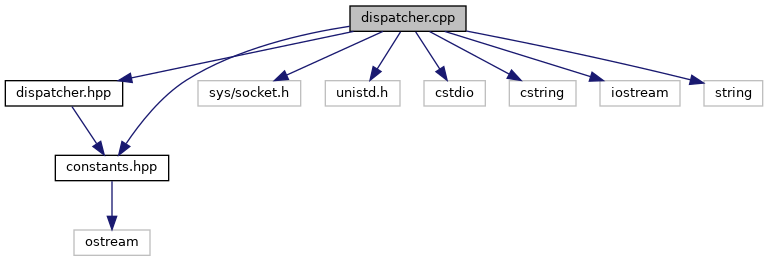
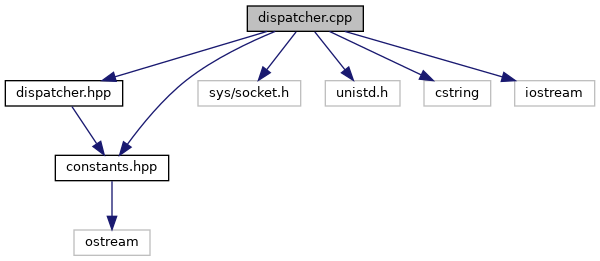
Update Doxygen docs

diff --git a/docs/server_8hpp_source.html b/docs/server_8hpp_source.html
@@ -74,23 +74,23 @@ $(function() {
 <div class="line"><a name="l00002"></a><span class="lineno">    2</span>&#160;<span class="preprocessor">#define SERVER_HPP</span></div>
 <div class="line"><a name="l00003"></a><span class="lineno">    3</span>&#160; </div>
 <div class="line"><a name="l00004"></a><span class="lineno">    4</span>&#160;<span class="preprocessor">#include &lt;cstdint&gt;</span></div>
-<div class="line"><a name="l00005"></a><span class="lineno">    5</span>&#160; </div>
-<div class="line"><a name="l00012"></a><span class="lineno"><a class="line" href="classServer.html">   12</a></span>&#160;<span class="keyword">class </span><a class="code" href="classServer.html">Server</a> {</div>
-<div class="line"><a name="l00013"></a><span class="lineno">   13</span>&#160;<span class="keyword">private</span>:</div>
-<div class="line"><a name="l00014"></a><span class="lineno">   14</span>&#160;<span class="keyword">public</span>:</div>
-<div class="line"><a name="l00015"></a><span class="lineno">   15</span>&#160;    <a class="code" href="classServer.html">Server</a>();</div>
+<div class="line"><a name="l00005"></a><span class="lineno">    5</span>&#160;<span class="preprocessor">#include &quot;constants.hpp&quot;</span></div>
+<div class="line"><a name="l00006"></a><span class="lineno">    6</span>&#160; </div>
+<div class="line"><a name="l00013"></a><span class="lineno"><a class="line" href="classServer.html">   13</a></span>&#160;<span class="keyword">class </span><a class="code" href="classServer.html">Server</a> {</div>
+<div class="line"><a name="l00014"></a><span class="lineno">   14</span>&#160;<span class="keyword">private</span>:</div>
+<div class="line"><a name="l00015"></a><span class="lineno">   15</span>&#160;    SOCKET_FD ss;</div>
 <div class="line"><a name="l00016"></a><span class="lineno">   16</span>&#160; </div>
-<div class="line"><a name="l00027"></a><span class="lineno">   27</span>&#160;    <a class="code" href="classServer.html">Server</a>(std::uint16_t port);</div>
-<div class="line"><a name="l00028"></a><span class="lineno">   28</span>&#160; </div>
-<div class="line"><a name="l00029"></a><span class="lineno">   29</span>&#160;    <span class="comment">// TODO:</span></div>
-<div class="line"><a name="l00030"></a><span class="lineno">   30</span>&#160;    ~<a class="code" href="classServer.html">Server</a>();</div>
-<div class="line"><a name="l00031"></a><span class="lineno">   31</span>&#160; </div>
-<div class="line"><a name="l00042"></a><span class="lineno">   42</span>&#160;    <span class="keywordtype">void</span> <a class="code" href="classServer.html#a08b15723047dd78d58ded22f2a893a2f">start</a>(std::uint16_t port);</div>
-<div class="line"><a name="l00043"></a><span class="lineno">   43</span>&#160;};</div>
-<div class="line"><a name="l00044"></a><span class="lineno">   44</span>&#160; </div>
-<div class="line"><a name="l00045"></a><span class="lineno">   45</span>&#160;<span class="preprocessor">#endif  </span><span class="comment">// !SERVER_HPP</span></div>
-<div class="ttc" id="aclassServer_html"><div class="ttname"><a href="classServer.html">Server</a></div><div class="ttdoc">A class to represent the HTTP server.</div><div class="ttdef"><b>Definition:</b> server.hpp:12</div></div>
-<div class="ttc" id="aclassServer_html_a08b15723047dd78d58ded22f2a893a2f"><div class="ttname"><a href="classServer.html#a08b15723047dd78d58ded22f2a893a2f">Server::start</a></div><div class="ttdeci">void start(std::uint16_t port)</div><div class="ttdoc">Starts the server on the given port.</div><div class="ttdef"><b>Definition:</b> server.cpp:20</div></div>
+<div class="line"><a name="l00017"></a><span class="lineno">   17</span>&#160;<span class="keyword">public</span>:</div>
+<div class="line"><a name="l00018"></a><span class="lineno">   18</span>&#160;    <a class="code" href="classServer.html">Server</a>();</div>
+<div class="line"><a name="l00019"></a><span class="lineno">   19</span>&#160; </div>
+<div class="line"><a name="l00020"></a><span class="lineno">   20</span>&#160;    ~<a class="code" href="classServer.html">Server</a>();</div>
+<div class="line"><a name="l00021"></a><span class="lineno">   21</span>&#160; </div>
+<div class="line"><a name="l00032"></a><span class="lineno">   32</span>&#160;    <span class="keywordtype">void</span> <a class="code" href="classServer.html#a08b15723047dd78d58ded22f2a893a2f">start</a>(std::uint16_t port);</div>
+<div class="line"><a name="l00033"></a><span class="lineno">   33</span>&#160;};</div>
+<div class="line"><a name="l00034"></a><span class="lineno">   34</span>&#160; </div>
+<div class="line"><a name="l00035"></a><span class="lineno">   35</span>&#160;<span class="preprocessor">#endif  </span><span class="comment">// !SERVER_HPP</span></div>
+<div class="ttc" id="aclassServer_html"><div class="ttname"><a href="classServer.html">Server</a></div><div class="ttdoc">A class to represent the HTTP server.</div><div class="ttdef"><b>Definition:</b> server.hpp:13</div></div>
+<div class="ttc" id="aclassServer_html_a08b15723047dd78d58ded22f2a893a2f"><div class="ttname"><a href="classServer.html#a08b15723047dd78d58ded22f2a893a2f">Server::start</a></div><div class="ttdeci">void start(std::uint16_t port)</div><div class="ttdoc">Starts the server on the given port.</div><div class="ttdef"><b>Definition:</b> server.cpp:21</div></div>
 </div><!-- fragment --></div><!-- contents -->
 <!-- start footer part -->
 <hr class="footer"/><address class="footer"><small>

diff --git a/docs/classServer.html b/docs/classServer.html
@@ -77,9 +77,6 @@ $(function() {
 <table class="memberdecls">
 <tr class="heading"><td colspan="2"><h2 class="groupheader"><a name="pub-methods"></a>
 Public Member Functions</h2></td></tr>
-<tr class="memitem:a48c8203ca321a55383145647522fe545"><td class="memItemLeft" align="right" valign="top">&#160;</td><td class="memItemRight" valign="bottom"><a class="el" href="classServer.html#a48c8203ca321a55383145647522fe545">Server</a> (std::uint16_t port)</td></tr>
-<tr class="memdesc:a48c8203ca321a55383145647522fe545"><td class="mdescLeft">&#160;</td><td class="mdescRight">Starts the server on the given port.  <a href="classServer.html#a48c8203ca321a55383145647522fe545">More...</a><br /></td></tr>
-<tr class="separator:a48c8203ca321a55383145647522fe545"><td class="memSeparator" colspan="2">&#160;</td></tr>
 <tr class="memitem:a08b15723047dd78d58ded22f2a893a2f"><td class="memItemLeft" align="right" valign="top">void&#160;</td><td class="memItemRight" valign="bottom"><a class="el" href="classServer.html#a08b15723047dd78d58ded22f2a893a2f">start</a> (std::uint16_t port)</td></tr>
 <tr class="memdesc:a08b15723047dd78d58ded22f2a893a2f"><td class="mdescLeft">&#160;</td><td class="mdescRight">Starts the server on the given port.  <a href="classServer.html#a08b15723047dd78d58ded22f2a893a2f">More...</a><br /></td></tr>
 <tr class="separator:a08b15723047dd78d58ded22f2a893a2f"><td class="memSeparator" colspan="2">&#160;</td></tr>
@@ -87,35 +84,7 @@ Public Member Functions</h2></td></tr>
 <a name="details" id="details"></a><h2 class="groupheader">Detailed Description</h2>
 <div class="textblock"><p>A class to represent the HTTP server. </p>
 <p>This class provides functionalities to start and manage an HTTP server. </p>
-</div><h2 class="groupheader">Constructor &amp; Destructor Documentation</h2>
-<a id="a48c8203ca321a55383145647522fe545"></a>
-<h2 class="memtitle"><span class="permalink"><a href="#a48c8203ca321a55383145647522fe545">&#9670;&nbsp;</a></span>Server()</h2>
-
-<div class="memitem">
-<div class="memproto">
-      <table class="memname">
-        <tr>
-          <td class="memname">Server::Server </td>
-          <td>(</td>
-          <td class="paramtype">std::uint16_t&#160;</td>
-          <td class="paramname"><em>port</em></td><td>)</td>
-          <td></td>
-        </tr>
-      </table>
-</div><div class="memdoc">
-
-<p>Starts the server on the given port. </p>
-<p>This function initializes and starts the server, making it listen on the specified port. It accepts incoming connections and spawns a new dispatcher thread for each connection.</p>
-<dl class="params"><dt>Parameters</dt><dd>
-  <table class="params">
-    <tr><td class="paramname">port</td><td>The port number on which the server will listen for incoming connections. </td></tr>
-  </table>
-  </dd>
-</dl>
-
-</div>
-</div>
-<h2 class="groupheader">Member Function Documentation</h2>
+</div><h2 class="groupheader">Member Function Documentation</h2>
 <a id="a08b15723047dd78d58ded22f2a893a2f"></a>
 <h2 class="memtitle"><span class="permalink"><a href="#a08b15723047dd78d58ded22f2a893a2f">&#9670;&nbsp;</a></span>start()</h2>
 

diff --git a/docs/server_8cpp.html b/docs/server_8cpp.html
@@ -75,8 +75,7 @@ $(function() {
 <a href="#details">More...</a></p>
 <div class="textblock"><code>#include &quot;server.hpp&quot;</code><br />
 <code>#include &lt;netinet/in.h&gt;</code><br />
-<code>#include &lt;cstdint&gt;</code><br />
-<code>#include &lt;cstring&gt;</code><br />
+<code>#include &lt;unistd.h&gt;</code><br />
 <code>#include &lt;thread&gt;</code><br />
 <code>#include &quot;dispatcher.hpp&quot;</code><br />
 <code>#include &quot;logger.hpp&quot;</code><br />
@@ -87,17 +86,17 @@ Include dependency graph for server.cpp:</div>
 <map name="aserver_8cpp" id="aserver_8cpp">
 <area shape="rect" title="Implements HTTP server." alt="" coords="279,5,369,32"/>
 <area shape="rect" href="server_8hpp_source.html" title=" " alt="" coords="5,80,96,107"/>
-<area shape="rect" title=" " alt="" coords="59,155,125,181"/>
-<area shape="rect" title=" " alt="" coords="171,80,267,107"/>
-<area shape="rect" title=" " alt="" coords="291,80,357,107"/>
-<area shape="rect" title=" " alt="" coords="381,80,445,107"/>
-<area shape="rect" href="dispatcher_8hpp_source.html" title=" " alt="" coords="469,80,587,107"/>
-<area shape="rect" href="logger_8hpp_source.html" title=" " alt="" coords="647,80,737,107"/>
-<area shape="rect" href="constants_8hpp_source.html" title=" " alt="" coords="453,155,566,181"/>
-<area shape="rect" title=" " alt="" coords="471,229,547,256"/>
-<area shape="rect" title=" " alt="" coords="590,155,653,181"/>
-<area shape="rect" title=" " alt="" coords="677,155,741,181"/>
-<area shape="rect" title=" " alt="" coords="765,155,824,181"/>
+<area shape="rect" title=" " alt="" coords="120,80,216,107"/>
+<area shape="rect" title=" " alt="" coords="240,80,315,107"/>
+<area shape="rect" title=" " alt="" coords="339,80,403,107"/>
+<area shape="rect" href="dispatcher_8hpp_source.html" title=" " alt="" coords="427,80,544,107"/>
+<area shape="rect" href="logger_8hpp_source.html" title=" " alt="" coords="568,80,659,107"/>
+<area shape="rect" title=" " alt="" coords="17,155,84,181"/>
+<area shape="rect" href="constants_8hpp_source.html" title=" " alt="" coords="233,155,346,181"/>
+<area shape="rect" title=" " alt="" coords="251,229,327,256"/>
+<area shape="rect" title=" " alt="" coords="494,155,557,181"/>
+<area shape="rect" title=" " alt="" coords="581,155,645,181"/>
+<area shape="rect" title=" " alt="" coords="669,155,728,181"/>
 </map>
 </div>
 </div><a name="details" id="details"></a><h2 class="groupheader">Detailed Description</h2>

diff --git a/docs/md_README.html b/docs/md_README.html
@@ -120,8 +120,8 @@ Usage</h1>
 <div class="ttc" id="aclassRequest_html"><div class="ttname"><a href="classRequest.html">Request</a></div><div class="ttdoc">A class to represent an HTTP request.</div><div class="ttdef"><b>Definition:</b> request.hpp:17</div></div>
 <div class="ttc" id="aclassResponse_html"><div class="ttname"><a href="classResponse.html">Response</a></div><div class="ttdef"><b>Definition:</b> response.hpp:8</div></div>
 <div class="ttc" id="aclassRouter_html"><div class="ttname"><a href="classRouter.html">Router</a></div><div class="ttdef"><b>Definition:</b> router.hpp:8</div></div>
-<div class="ttc" id="aclassServer_html"><div class="ttname"><a href="classServer.html">Server</a></div><div class="ttdoc">A class to represent the HTTP server.</div><div class="ttdef"><b>Definition:</b> server.hpp:12</div></div>
-<div class="ttc" id="aclassServer_html_a08b15723047dd78d58ded22f2a893a2f"><div class="ttname"><a href="classServer.html#a08b15723047dd78d58ded22f2a893a2f">Server::start</a></div><div class="ttdeci">void start(std::uint16_t port)</div><div class="ttdoc">Starts the server on the given port.</div><div class="ttdef"><b>Definition:</b> server.cpp:20</div></div>
+<div class="ttc" id="aclassServer_html"><div class="ttname"><a href="classServer.html">Server</a></div><div class="ttdoc">A class to represent the HTTP server.</div><div class="ttdef"><b>Definition:</b> server.hpp:13</div></div>
+<div class="ttc" id="aclassServer_html_a08b15723047dd78d58ded22f2a893a2f"><div class="ttname"><a href="classServer.html#a08b15723047dd78d58ded22f2a893a2f">Server::start</a></div><div class="ttdeci">void start(std::uint16_t port)</div><div class="ttdoc">Starts the server on the given port.</div><div class="ttdef"><b>Definition:</b> server.cpp:21</div></div>
 </div><!-- fragment --><ol type="1">
 <li><b>Defining a controller function:</b></li>
 </ol>

diff --git a/docs/dispatcher_8cpp.html b/docs/dispatcher_8cpp.html
@@ -78,25 +78,21 @@ $(function() {
 <div class="textblock"><code>#include &quot;dispatcher.hpp&quot;</code><br />
 <code>#include &lt;sys/socket.h&gt;</code><br />
 <code>#include &lt;unistd.h&gt;</code><br />
-<code>#include &lt;cstdio&gt;</code><br />
 <code>#include &lt;cstring&gt;</code><br />
 <code>#include &lt;iostream&gt;</code><br />
-<code>#include &lt;string&gt;</code><br />
 <code>#include &quot;constants.hpp&quot;</code><br />
 </div><div class="textblock"><div class="dynheader">
 Include dependency graph for dispatcher.cpp:</div>
 <div class="dyncontent">
 <div class="center"><img src="dispatcher_8cpp__incl.png" border="0" usemap="#adispatcher_8cpp" alt=""/></div>
 <map name="adispatcher_8cpp" id="adispatcher_8cpp">
-<area shape="rect" title="This file implements the dispatcher thread." alt="" coords="350,5,466,32"/>
+<area shape="rect" title="This file implements the dispatcher thread." alt="" coords="247,5,363,32"/>
 <area shape="rect" href="dispatcher_8hpp_source.html" title=" " alt="" coords="5,80,123,107"/>
 <area shape="rect" href="constants_8hpp_source.html" title=" " alt="" coords="55,155,169,181"/>
 <area shape="rect" title=" " alt="" coords="198,80,301,107"/>
 <area shape="rect" title=" " alt="" coords="325,80,400,107"/>
-<area shape="rect" title=" " alt="" coords="424,80,485,107"/>
-<area shape="rect" title=" " alt="" coords="509,80,576,107"/>
-<area shape="rect" title=" " alt="" coords="600,80,680,107"/>
-<area shape="rect" title=" " alt="" coords="704,80,763,107"/>
+<area shape="rect" title=" " alt="" coords="424,80,491,107"/>
+<area shape="rect" title=" " alt="" coords="515,80,595,107"/>
 <area shape="rect" title=" " alt="" coords="74,229,150,256"/>
 </map>
 </div>

diff --git a/docs/classServer-members.html b/docs/classServer-members.html
@@ -70,9 +70,8 @@ $(function() {
 <p>This is the complete list of members for <a class="el" href="classServer.html">Server</a>, including all inherited members.</p>
 <table class="directory">
   <tr bgcolor="#f0f0f0" class="even"><td class="entry"><b>Server</b>() (defined in <a class="el" href="classServer.html">Server</a>)</td><td class="entry"><a class="el" href="classServer.html">Server</a></td><td class="entry"></td></tr>
-  <tr><td class="entry"><a class="el" href="classServer.html#a48c8203ca321a55383145647522fe545">Server</a>(std::uint16_t port)</td><td class="entry"><a class="el" href="classServer.html">Server</a></td><td class="entry"></td></tr>
-  <tr class="even"><td class="entry"><a class="el" href="classServer.html#a08b15723047dd78d58ded22f2a893a2f">start</a>(std::uint16_t port)</td><td class="entry"><a class="el" href="classServer.html">Server</a></td><td class="entry"></td></tr>
-  <tr bgcolor="#f0f0f0"><td class="entry"><b>~Server</b>() (defined in <a class="el" href="classServer.html">Server</a>)</td><td class="entry"><a class="el" href="classServer.html">Server</a></td><td class="entry"></td></tr>
+  <tr><td class="entry"><a class="el" href="classServer.html#a08b15723047dd78d58ded22f2a893a2f">start</a>(std::uint16_t port)</td><td class="entry"><a class="el" href="classServer.html">Server</a></td><td class="entry"></td></tr>
+  <tr bgcolor="#f0f0f0" class="even"><td class="entry"><b>~Server</b>() (defined in <a class="el" href="classServer.html">Server</a>)</td><td class="entry"><a class="el" href="classServer.html">Server</a></td><td class="entry"></td></tr>
 </table></div><!-- contents -->
 <!-- start footer part -->
 <hr class="footer"/><address class="footer"><small>

diff --git a/docs/dispatcher_8hpp_source.html b/docs/dispatcher_8hpp_source.html
@@ -78,7 +78,7 @@ $(function() {
 <div class="line"><a name="l00015"></a><span class="lineno">   15</span>&#160;<span class="keywordtype">void</span> <a class="code" href="dispatcher_8cpp.html#a393215171b4db48f49f4b35fe0208ef1">take_over</a>(SOCKET_FD socket);</div>
 <div class="line"><a name="l00016"></a><span class="lineno">   16</span>&#160; </div>
 <div class="line"><a name="l00017"></a><span class="lineno">   17</span>&#160;<span class="preprocessor">#endif  </span><span class="comment">// !DISPATCHER_HPP</span></div>
-<div class="ttc" id="adispatcher_8cpp_html_a393215171b4db48f49f4b35fe0208ef1"><div class="ttname"><a href="dispatcher_8cpp.html#a393215171b4db48f49f4b35fe0208ef1">take_over</a></div><div class="ttdeci">void take_over(SOCKET_FD socket)</div><div class="ttdoc">The dispatcher function to handle incoming requests.</div><div class="ttdef"><b>Definition:</b> dispatcher.cpp:20</div></div>
+<div class="ttc" id="adispatcher_8cpp_html_a393215171b4db48f49f4b35fe0208ef1"><div class="ttname"><a href="dispatcher_8cpp.html#a393215171b4db48f49f4b35fe0208ef1">take_over</a></div><div class="ttdeci">void take_over(SOCKET_FD socket)</div><div class="ttdoc">The dispatcher function to handle incoming requests.</div><div class="ttdef"><b>Definition:</b> dispatcher.cpp:18</div></div>
 </div><!-- fragment --></div><!-- contents -->
 <!-- start footer part -->
 <hr class="footer"/><address class="footer"><small>

diff --git a/docs/search/functions_4.js b/docs/search/functions_4.js
@@ -1,7 +1,6 @@
 var searchData=
 [
-  ['server_42',['Server',['../classServer.html#a48c8203ca321a55383145647522fe545',1,'Server']]],
-  ['set_43',['set',['../classResponse.html#ac6e627ad5207cf157b437186535e41a7',1,'Response']]],
-  ['start_44',['start',['../classServer.html#a08b15723047dd78d58ded22f2a893a2f',1,'Server']]],
-  ['status_45',['status',['../classResponse.html#a36d551bcf0e16939a6ebc3f47ccc49e4',1,'Response']]]
+  ['set_42',['set',['../classResponse.html#ac6e627ad5207cf157b437186535e41a7',1,'Response']]],
+  ['start_43',['start',['../classServer.html#a08b15723047dd78d58ded22f2a893a2f',1,'Server']]],
+  ['status_44',['status',['../classResponse.html#a36d551bcf0e16939a6ebc3f47ccc49e4',1,'Response']]]
 ];

diff --git a/docs/search/all_7.js b/docs/search/all_7.js
@@ -1,7 +1,7 @@
 var searchData=
 [
   ['safelogger_16',['SafeLogger',['../classSafeLogger.html',1,'']]],
-  ['server_17',['Server',['../classServer.html',1,'Server'],['../classServer.html#a48c8203ca321a55383145647522fe545',1,'Server::Server()']]],
+  ['server_17',['Server',['../classServer.html',1,'']]],
   ['server_2ecpp_18',['server.cpp',['../server_8cpp.html',1,'']]],
   ['set_19',['set',['../classResponse.html#ac6e627ad5207cf157b437186535e41a7',1,'Response']]],
   ['start_20',['start',['../classServer.html#a08b15723047dd78d58ded22f2a893a2f',1,'Server']]],

diff --git a/docs/search/functions_5.js b/docs/search/functions_5.js
@@ -1,5 +1,5 @@
 var searchData=
 [
-  ['table_46',['table',['../classRouter.html#a380fbe090e8d6d285a613159a580af5c',1,'Router']]],
-  ['take_5fover_47',['take_over',['../dispatcher_8cpp.html#a393215171b4db48f49f4b35fe0208ef1',1,'dispatcher.cpp']]]
+  ['table_45',['table',['../classRouter.html#a380fbe090e8d6d285a613159a580af5c',1,'Router']]],
+  ['take_5fover_46',['take_over',['../dispatcher_8cpp.html#a393215171b4db48f49f4b35fe0208ef1',1,'dispatcher.cpp']]]
 ];

diff --git a/docs/functions.html b/docs/functions.html
@@ -75,9 +75,6 @@ $(function() {
 <li>route()
 : <a class="el" href="classRouter.html#aed151339ab9cebb5e0882b75e43da511">Router</a>
 </li>
-<li>Server()
-: <a class="el" href="classServer.html#a48c8203ca321a55383145647522fe545">Server</a>
-</li>
 <li>set()
 : <a class="el" href="classResponse.html#ac6e627ad5207cf157b437186535e41a7">Response</a>
 </li>

diff --git a/docs/functions_func.html b/docs/functions_func.html
@@ -75,9 +75,6 @@ $(function() {
 <li>route()
 : <a class="el" href="classRouter.html#aed151339ab9cebb5e0882b75e43da511">Router</a>
 </li>
-<li>Server()
-: <a class="el" href="classServer.html#a48c8203ca321a55383145647522fe545">Server</a>
-</li>
 <li>set()
 : <a class="el" href="classResponse.html#ac6e627ad5207cf157b437186535e41a7">Response</a>
 </li>
